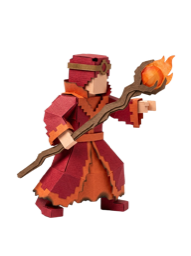
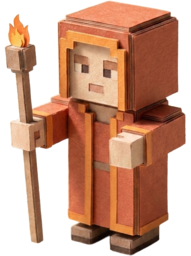
Papercraft-mini reskin to match 16-GAMI reference: blocky paper unit sprites (25), cream stone + muted olive grass, checkerboard plaza tint
- Regenerate all 5 classes x 5 poses as chunky cubic paper miniatures using the reference diorama as style anchor
- Stone texture: cream-tan paper; grass remapped from vivid green to reference khaki-olive (#9C9069)
- Renderer: alternate stone tiles tinted kraft-tan by parity for the reference's checkerboard plaza

diff --git a/src/render/renderer.ts b/src/render/renderer.ts
@@ -169,6 +169,14 @@ export class Renderer {
       ctx.transform(TILE_W / 2, TILE_H / 2, -TILE_W / 2, TILE_H / 2, cx, cy - TILE_H / 2);
       ctx.drawImage(img, sx, sy, img.width / 2, img.height / 2, 0, 0, 1, 1);
       ctx.restore();
+      if (t.terrain === 'stone' && ((t.x + t.y) & 1) === 1) {
+        // checkerboard plaza: darken alternate stone tiles toward kraft tan
+        ctx.save();
+        diamondPath(ctx, cx, cy);
+        ctx.fillStyle = 'rgba(146, 106, 62, 0.28)';
+        ctx.fill();
+        ctx.restore();
+      }
       if (t.terrain === 'water') {
         ctx.save();
         diamondPath(ctx, cx, cy);
